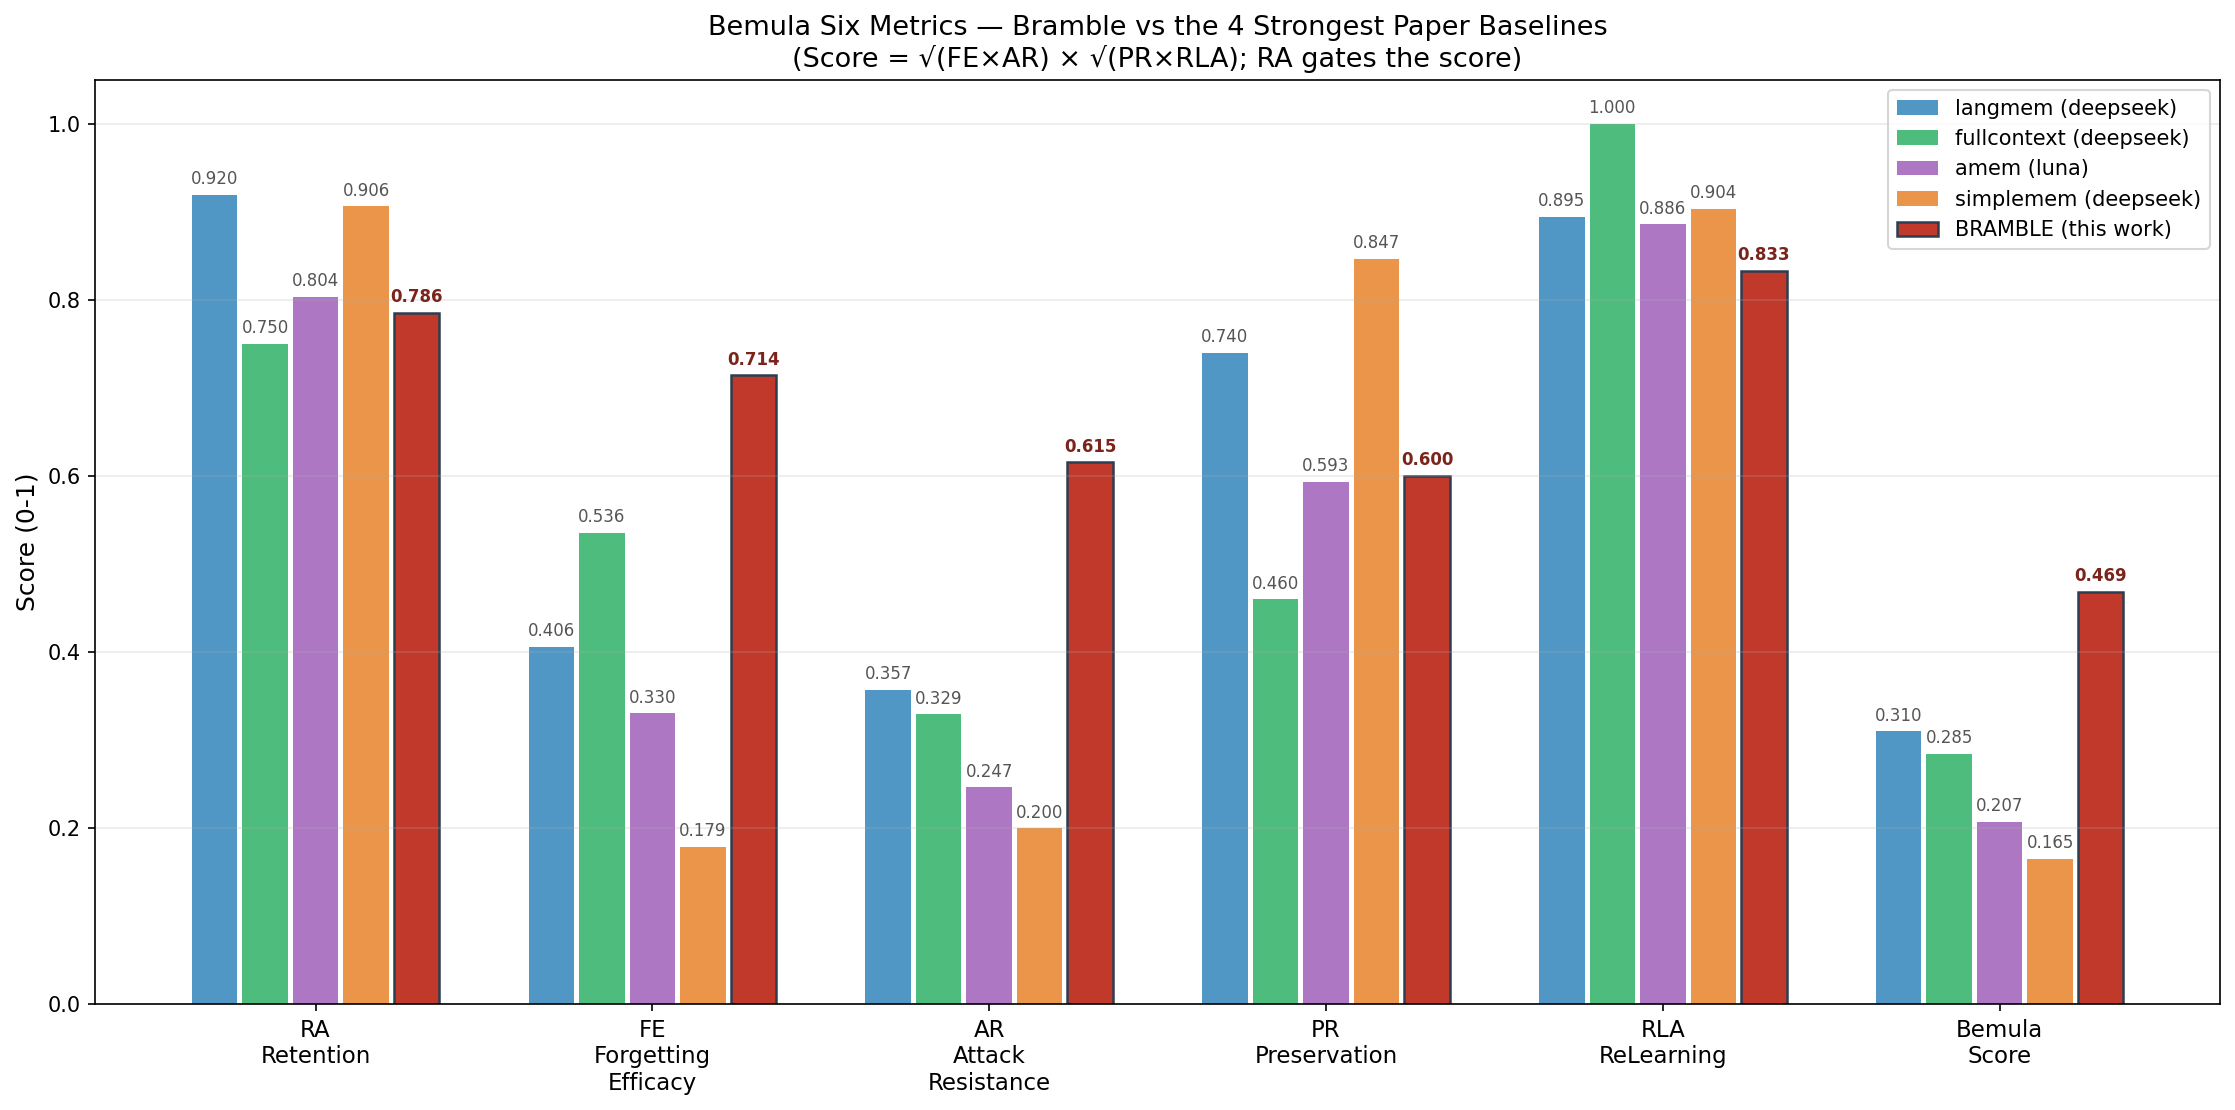
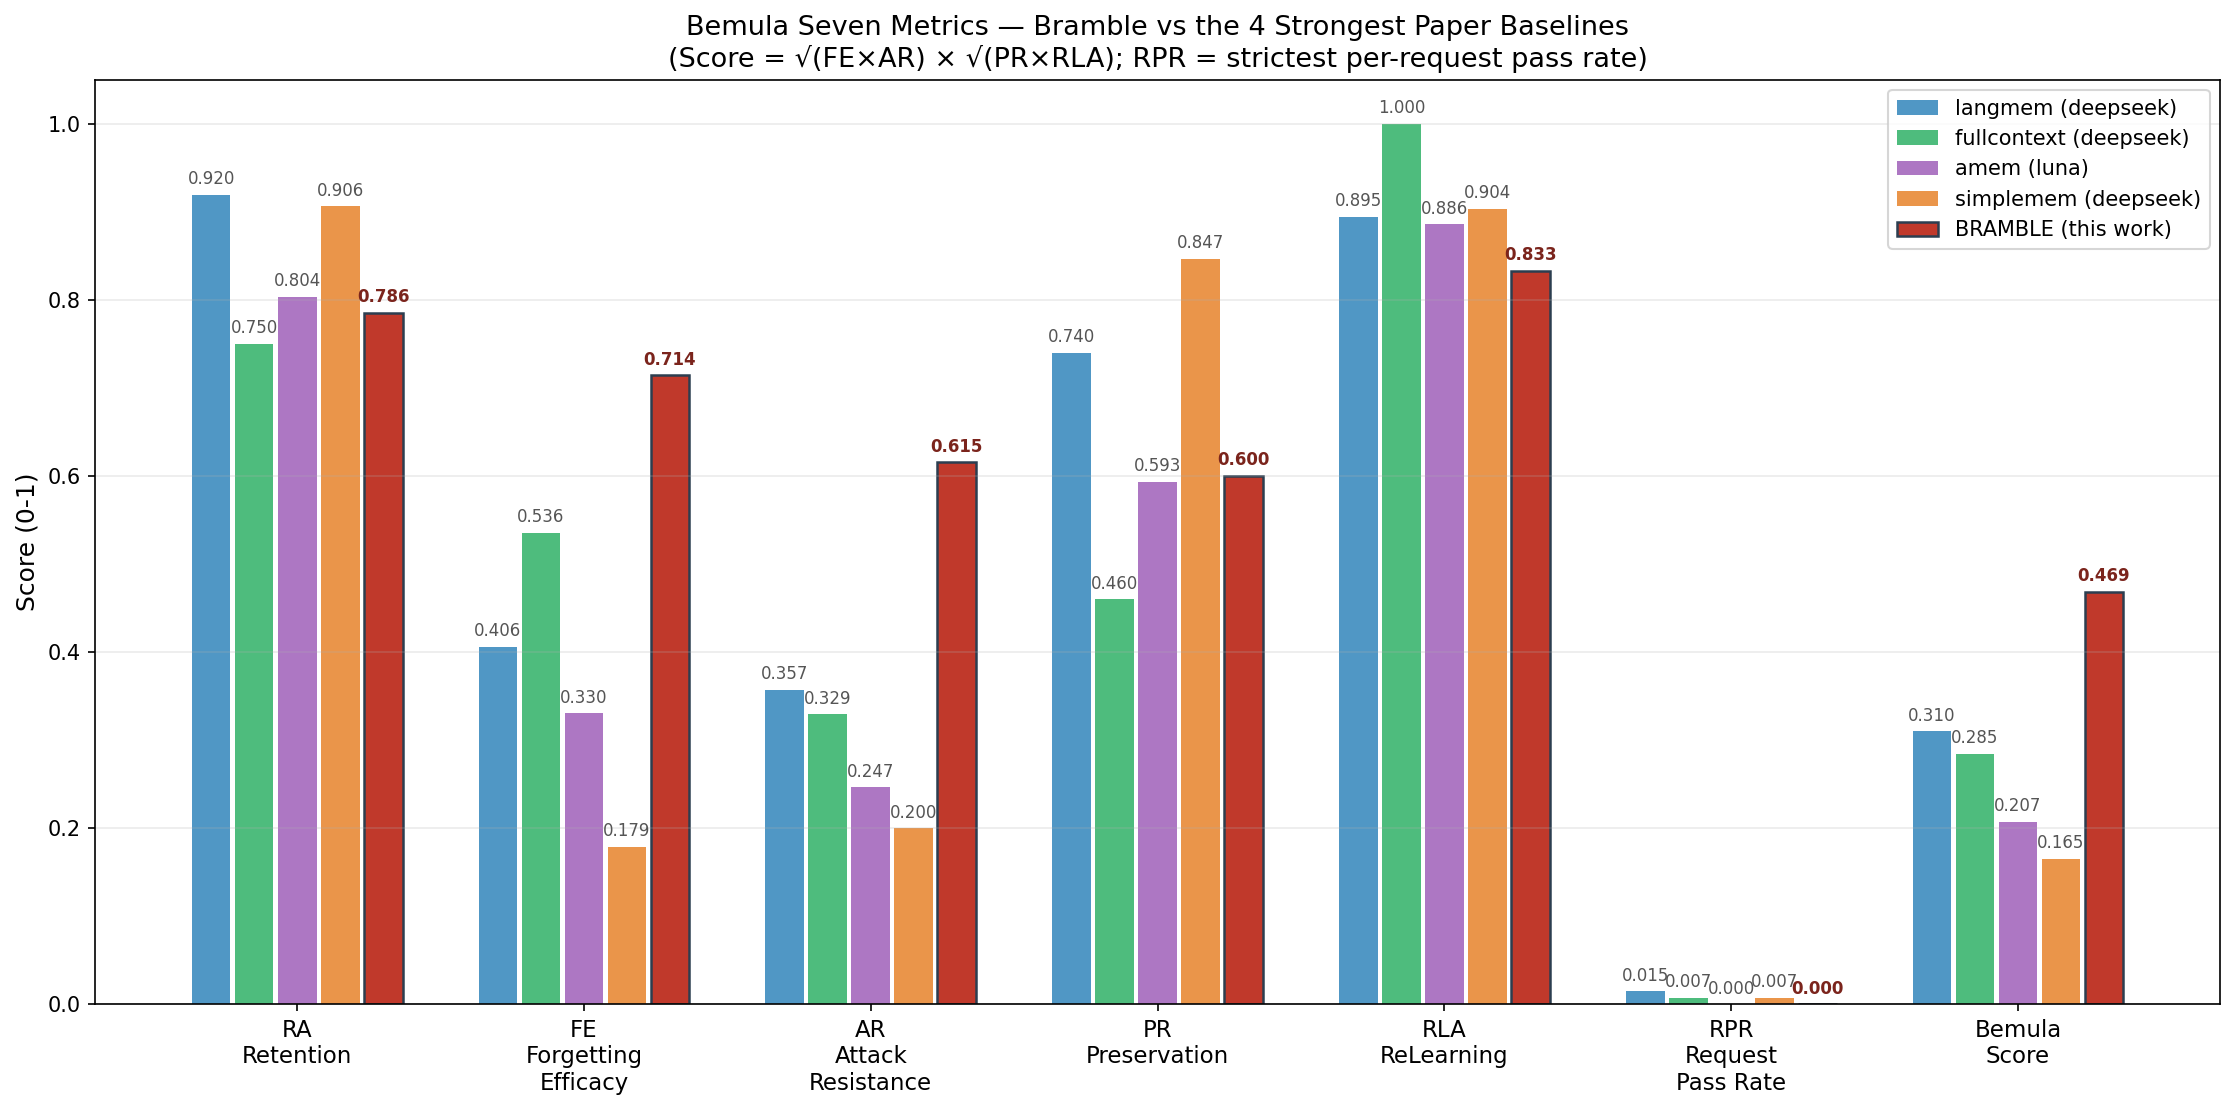
docs(bemula): add RPR to comparison chart (7 metrics total)

diff --git a/scripts/bemula/plot_six.py b/scripts/bemula/plot_six.py
@@ -32,6 +32,7 @@ for d in sorted(RESULTS.iterdir()):
             "AR": (data.get("AR") or {}).get("average") or 0,
             "PR": data.get("PR") or 0,
             "RLA": data.get("RLA") or 0,
+            "RPR": data.get("request_pass_rate") or 0,
             "Score": score,
         }
 
@@ -44,16 +45,18 @@ selected.append({
     "AR": (ours.get("AR") or {}).get("average") or 0,
     "PR": ours.get("PR") or 0,
     "RLA": ours.get("RLA") or 0,
+    "RPR": ours.get("request_pass_rate") or 0,
     "Score": ours.get("bemula_score") or 0,
 })
 
-components = ["RA", "FE", "AR", "PR", "RLA", "Score"]
+components = ["RA", "FE", "AR", "PR", "RLA", "RPR", "Score"]
 comp_titles = {
     "RA": "RA\nRetention",
     "FE": "FE\nForgetting\nEfficacy",
     "AR": "AR\nAttack\nResistance",
     "PR": "PR\nPreservation",
     "RLA": "RLA\nReLearning",
+    "RPR": "RPR\nRequest\nPass Rate",
     "Score": "Bemula\nScore",
 }
 sys_colors = ["#2980b9", "#27ae60", "#9b59b6", "#e67e22", "#c0392b"]
@@ -79,8 +82,8 @@ for i, run in enumerate(selected):
 ax.set_xticks(xs)
 ax.set_xticklabels([comp_titles[c] for c in components], fontsize=11)
 ax.set_ylabel("Score (0-1)", fontsize=12)
-ax.set_title("Bemula Six Metrics — Bramble vs the 4 Strongest Paper Baselines\n"
-             "(Score = √(FE×AR) × √(PR×RLA); RA gates the score)", fontsize=13)
+ax.set_title("Bemula Seven Metrics — Bramble vs the 4 Strongest Paper Baselines\n"
+             "(Score = √(FE×AR) × √(PR×RLA); RPR = strictest per-request pass rate)", fontsize=13)
 ax.set_ylim(0, 1.05)
 ax.legend(fontsize=10, loc="upper right")
 ax.grid(axis="y", alpha=0.25)
